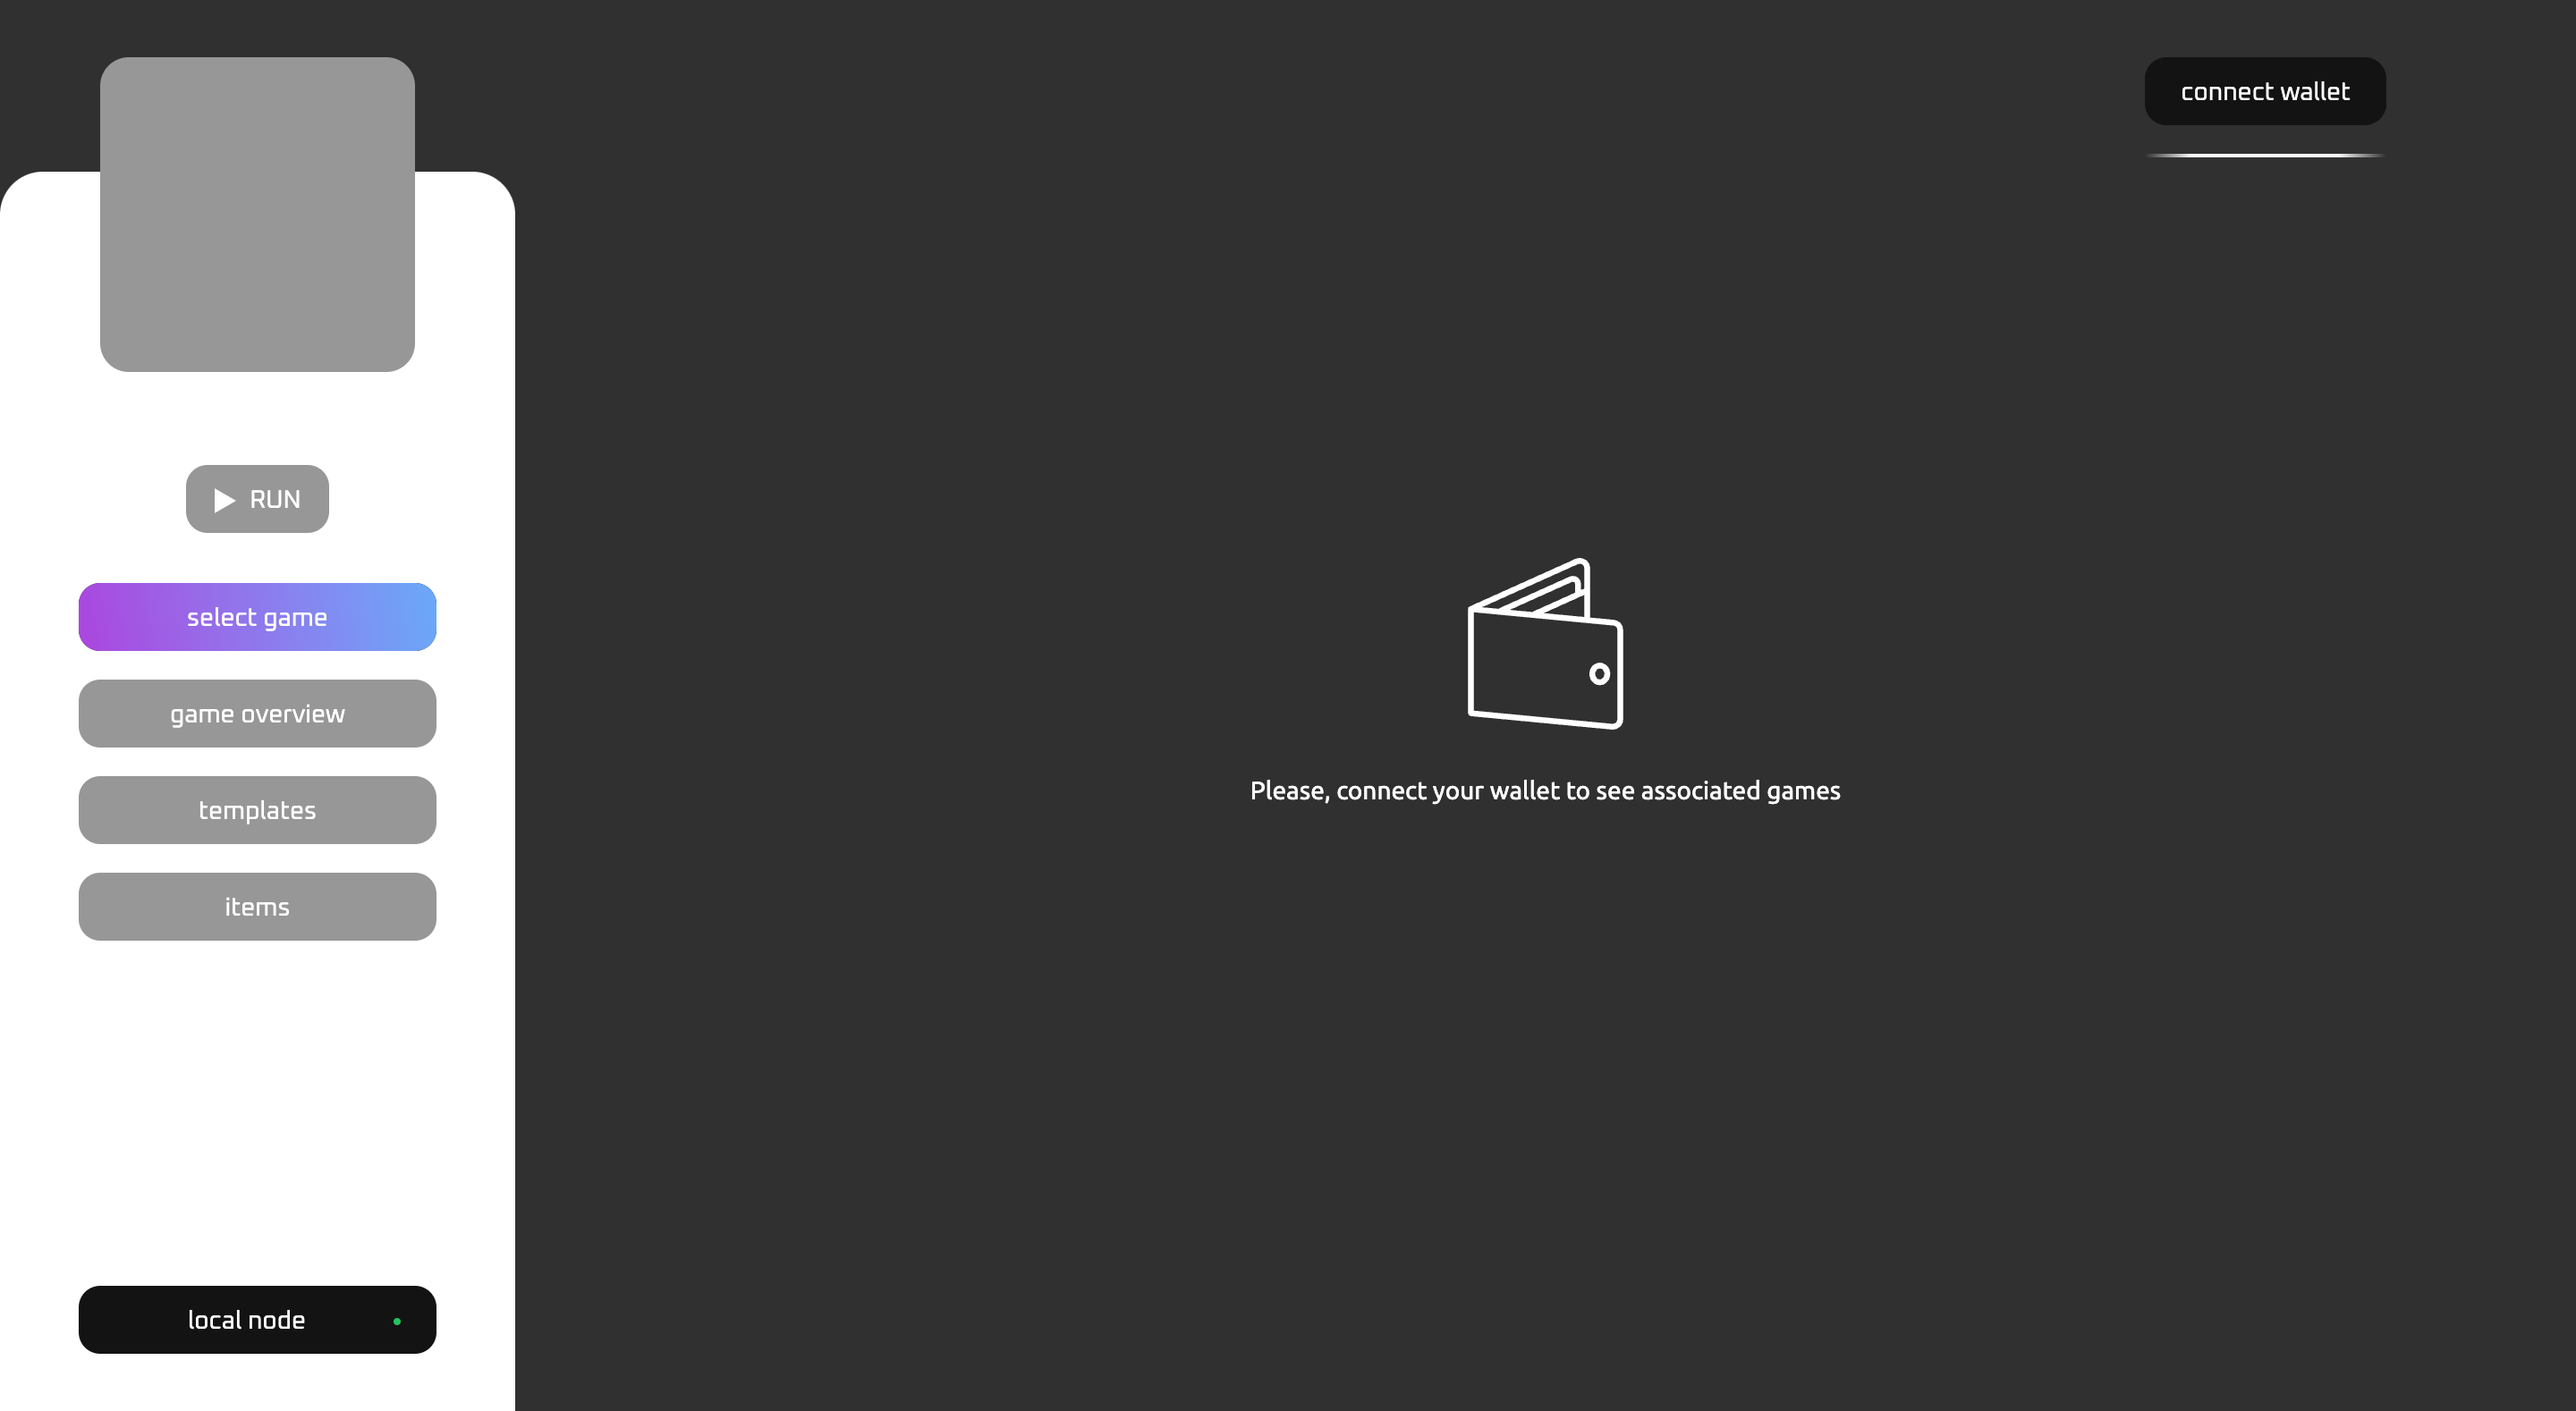
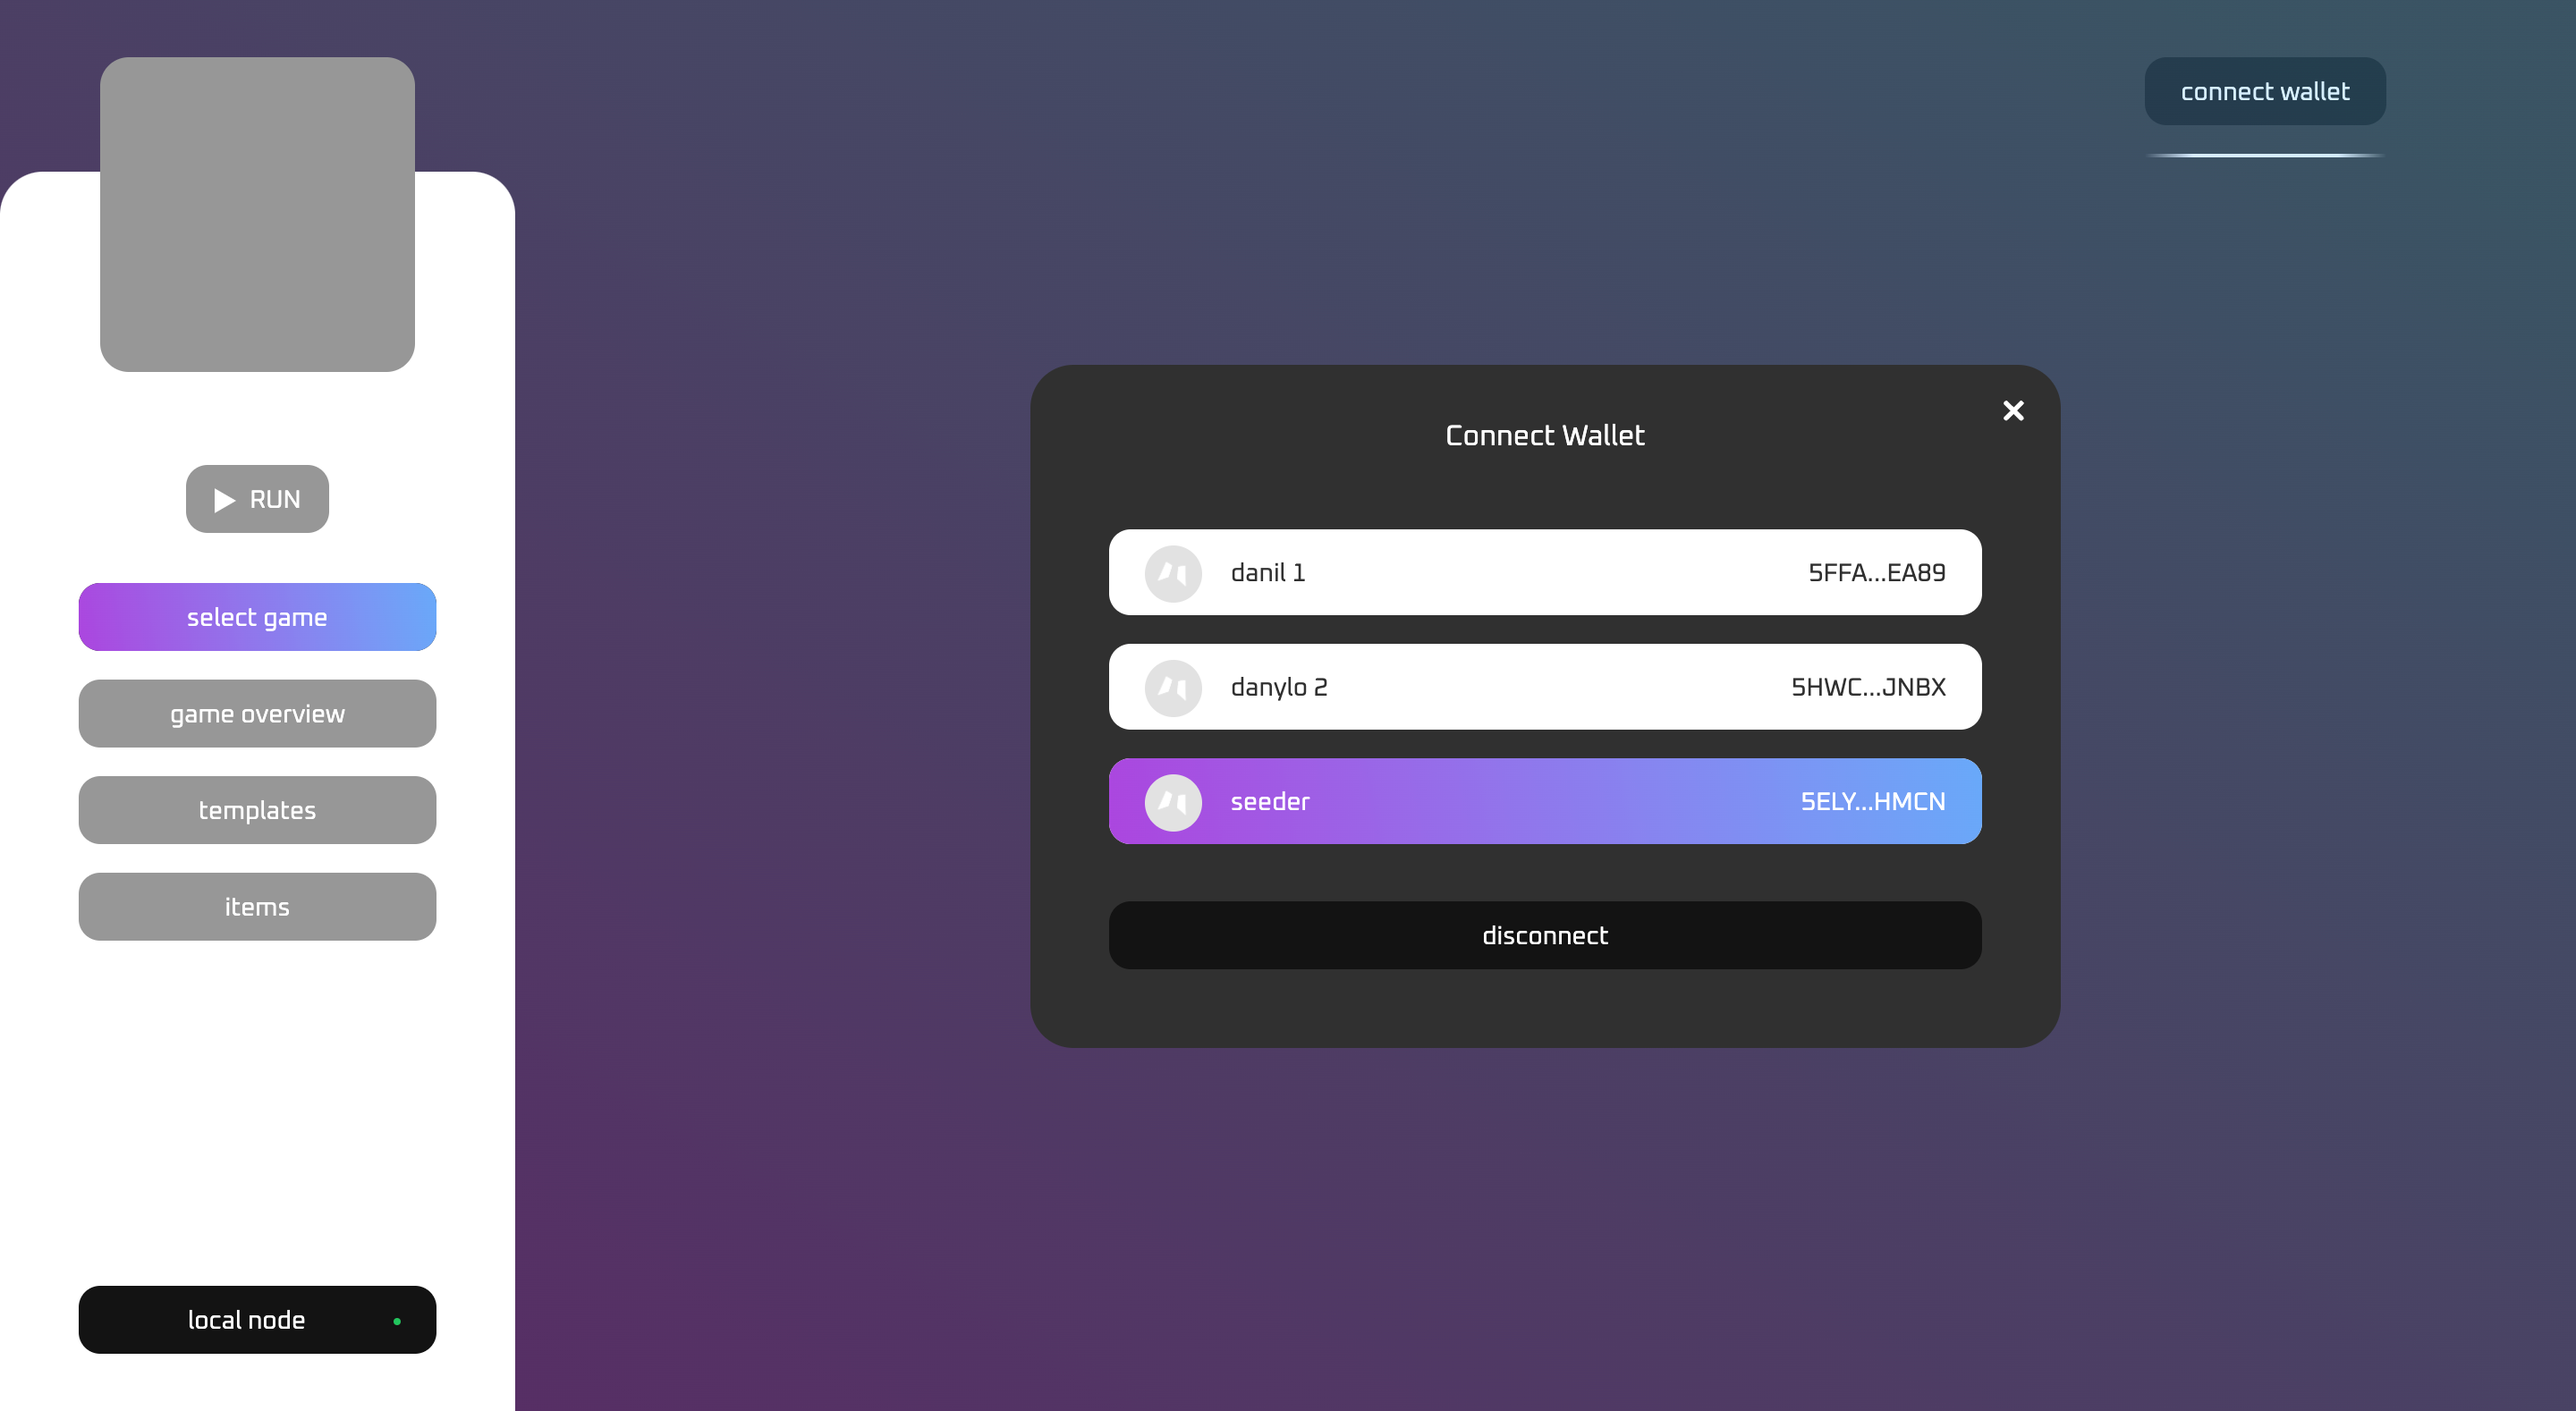
update testing guide

diff --git a/packages/connection-library/seed/mocks.ts b/packages/connection-library/seed/mocks.ts
@@ -113,6 +113,16 @@ export const tags = [
          },
       },
    },
+   {
+      tag: 'pixeled',
+      metadata: {
+         id: 'pixeled',
+         description: 'pixeled style view',
+         metadataExtensions: {
+            fields: [],
+         },
+      },
+   },
 ]
 
 export const templates: ITemplateMockData[] = [
@@ -128,8 +138,8 @@ export const templates: ITemplateMockData[] = [
             interpretation: {
                src: '/img/sword.png',
                metadata: {
-                  fieldName: 'fieldValue',
-                  fileFormat: '.png',
+                  description: 'The default representation of item | in PNG format',
+                  format: '.png',
                },
             },
          },
@@ -147,7 +157,7 @@ export const templates: ITemplateMockData[] = [
             interpretation: {
                src: 'https://i.pinimg.com/originals/3a/83/bf/3a83bf5f768ef01338ba534ae4a1447b.png',
                metadata: {
-                  fieldName: 'fieldValue',
+                  description: 'The default representation of item | in PNG format',
                   format: '.png',
                },
             },
@@ -166,7 +176,7 @@ export const templates: ITemplateMockData[] = [
             interpretation: {
                src: '/img/lamp.png',
                metadata: {
-                  fieldName: 'fieldValue',
+                  description: 'The default representation of item | in PNG format',
                   format: '.png',
                },
             },
@@ -185,7 +195,7 @@ export const templates: ITemplateMockData[] = [
             interpretation: {
                src: '/img/clover_leaf.png',
                metadata: {
-                  fieldName: 'fieldValue',
+                  description: 'The default representation of item | in PNG format',
                   format: '.png',
                },
             },
@@ -204,7 +214,7 @@ export const templates: ITemplateMockData[] = [
             interpretation: {
                src: 'https://zilliongamer.com/uploads/codm/skins/assault/m16/m16-pumpkin-repeater-cod-mobile.jpg',
                metadata: {
-                  fieldName: 'fieldValue',
+                  description: 'The default representation of item | in JPG format',
                   format: '.jpg',
                },
             },
@@ -223,7 +233,7 @@ export const templates: ITemplateMockData[] = [
             interpretation: {
                src: 'https://zilliongamer.com/uploads/codm/skins/assault/m16/m16-gold-glitter-cod-mobile.jpg',
                metadata: {
-                  fieldName: 'fieldValue',
+                  description: 'The default representation of item | in JPG format',
                   format: '.jpg',
                },
             },
@@ -242,7 +252,7 @@ export const templates: ITemplateMockData[] = [
             interpretation: {
                src: 'https://zilliongamer.com/uploads/pubg-mobile/weapon/type/ar/aug/skin/white-rabbit-aug-big.jpg',
                metadata: {
-                  fieldName: 'fieldValue',
+                  description: 'The default representation of item | in JPG format',
                   format: '.jpg',
                },
             },

diff --git a/packages/game-developers-console/src/pages/game-templates/add-interpretation-modal.tsx b/packages/game-developers-console/src/pages/game-templates/add-interpretation-modal.tsx
@@ -56,7 +56,7 @@ export const AddInterpretationModal: React.FC<IProps> = ({ template, open, onClo
             setTimeout(() => {
                queryClient.invalidateQueries(['interpretations', template.id])
                queryClient.invalidateQueries(['templates', template.id])
-            }, 400)
+            }, 1000)
          },
       }
    )

diff --git a/packages/game-developers-console/src/pages/game-items/index.tsx b/packages/game-developers-console/src/pages/game-items/index.tsx
@@ -3,5 +3,5 @@ import * as React from 'react'
 interface IProps {}
 
 export const GameItems: React.FC<IProps> = () => {
-   return <div className="container mx-auto">Items</div>
+   return <div className="container mx-auto text-white">Coming soon...</div>
 }

diff --git a/packages/game-developers-console/docs/testing-guide.md b/packages/game-developers-console/docs/testing-guide.md
@@ -1,11 +1,11 @@
 # Game Developers Console Testing Guide
 
-Firstly, you have to configure local env and run 3 processes:
+Firstly, you have to configure the local env and run three processes:
 1. Asylum node
 2. Local IPFS daemon
 3. Game Developers Console web app
 
-Follow instructions to run [Game Developers Console (locally)](packages/game-developers-console/README.md).
+Follow instructions to run [Game Developers Console (locally)](/packages/game-developers-console/README.md).
 Make sure you're using the node version: **v17.9.0**.
 
 ### Steps
@@ -27,11 +27,48 @@ yarn seed
 #### Step 2: Configure PolkadotJS and connect to the local node:
 
 1. [Install](https://polkadot.js.org/extension/) PolkadotJS browser extension.
+
 2. Import seeder account using `SEEDER_MNEMONIC`.
-3. Navigate to `http://localhost:3000` in browser:
+
+3. Navigate to `http://localhost:3000` in the browser:
+
 4. Click `disconnected` button and connect to the local node:
-![](img/screenshot-1.png)
-![](img/screenshot-2.png)
+   ![](img/screenshot-1.png)
+
+5. Click `connect wallet` button -> Select `Polkadot{.js} wallet` -> Select seeder account, which you imported before
+   ![](img/screenshot-2.png)
+
+6. After that, you will see the list of games associated with the seeder account.
+   ![](img/screenshot-3.png)
+
+7. You can click `game overview` button and check game metadata, which is configured by the seed script
+   ![](img/screenshot-4.png)
+
+#### Step 3: Configure Template and Interpretations:
+
+1. Navigate to the `templates` page and click `+ create template` button. Here you have to fill in metadata related to the Template (`Name`, `Description`). All Templates should have at least one visual Interpretation with `default-view` tag. This Interpretation can be used in the marketplace or inventory and represents the general visual features of Template.
+> Note: at the moment, the form works only with `image/*` sources, but in fact, Interpretation can have any source type, even not visual, but text
+
+![](img/screenshot-5.png)
+
+2. Adding Tags affects the metadata of Interpretation. You can check the result in `Raw Metadata` field. Consider tags as a verbal description of Interpretation. Tags can carry metadata fields with predefined or configurable values, or even without any metadata, bringing specific semantics to the Interpretation (like the `pixeled` tag).
+   ![](img/screenshot-6.png)
+
+3. After submitting Template and signing a transaction, you can find the Template using the search bar
+   ![](img/screenshot-7.png)
+
+4. Click on the Template and check its metadata and Interpretations. You can add new Interpretation to the Template or edit the existing one.
+   ![](img/screenshot-8.png)
+
+5. Let's add a new Interpretation with `pixeled tag`.
+> Note: after submitting the change-set Template proposal, you'll be passed through the DAO acceptance process. Right now, the flow is simplified, and it's implied that DAO always accepts the proposal. Anyway, there will be two transactions:
+> 1. Create change-set proposal
+> 2. Applying updates to the Template
+
+![](img/screenshot-9.png)
+
+6. Finally, the new Interpretation was added!
+   ![](img/screenshot-10.png)
 
 
 
